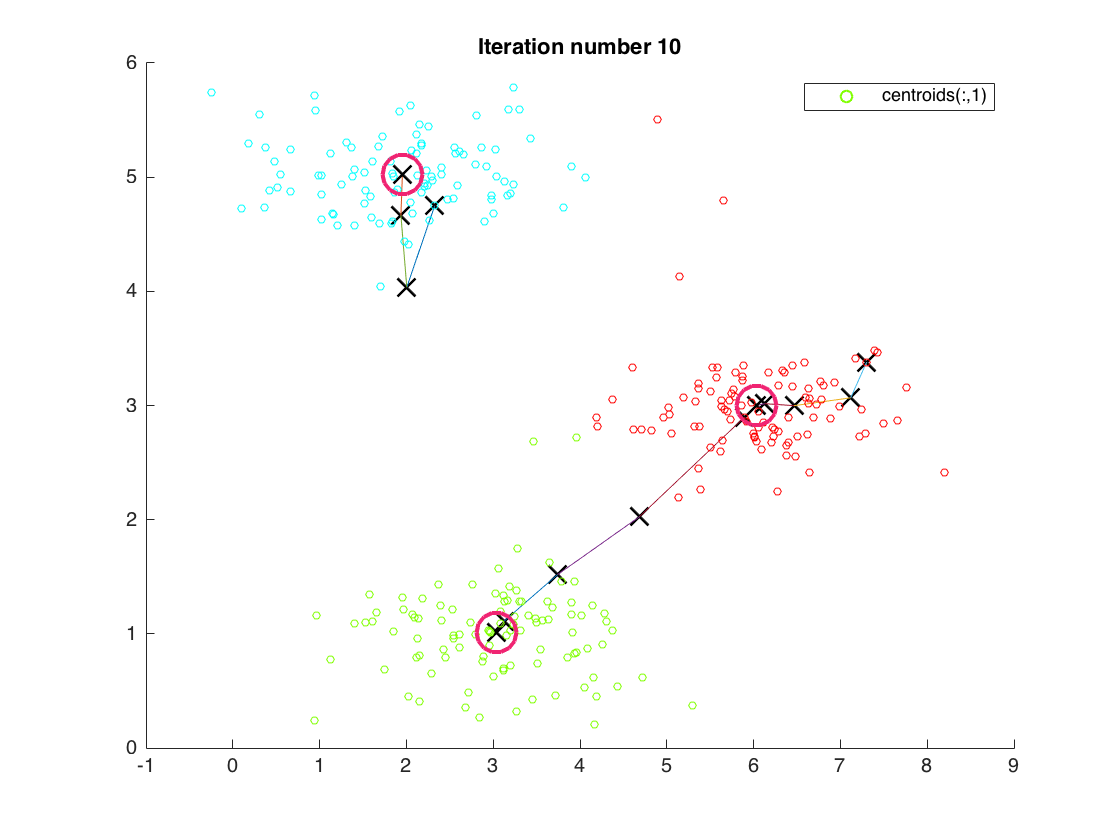
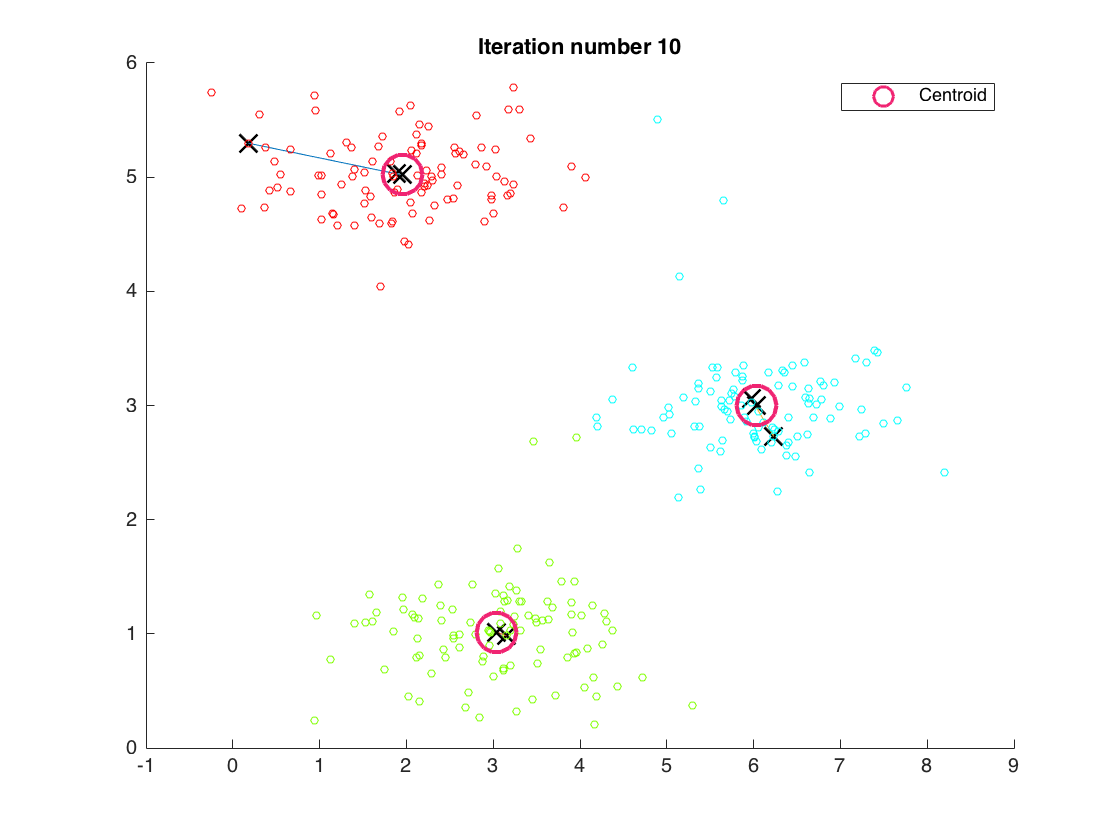
Updating plot legend

diff --git a/K-Means Clustering/html/execute.html b/K-Means Clustering/html/execute.html
@@ -6,7 +6,7 @@
    <!--
 This HTML was auto-generated from MATLAB code.
 To make changes, update the MATLAB code and republish this document.
-      --><title>execute</title><meta name="generator" content="MATLAB 8.6"><link rel="schema.DC" href="http://purl.org/dc/elements/1.1/"><meta name="DC.date" content="2017-01-18"><meta name="DC.source" content="execute.m"><style type="text/css">
+      --><title>execute</title><meta name="generator" content="MATLAB 8.6"><link rel="schema.DC" href="http://purl.org/dc/elements/1.1/"><meta name="DC.date" content="2017-01-20"><meta name="DC.source" content="execute.m"><style type="text/css">
 html,body,div,span,applet,object,iframe,h1,h2,h3,h4,h5,h6,p,blockquote,pre,a,abbr,acronym,address,big,cite,code,del,dfn,em,font,img,ins,kbd,q,s,samp,small,strike,strong,sub,sup,tt,var,b,u,i,center,dl,dt,dd,ol,ul,li,fieldset,form,label,legend,table,caption,tbody,tfoot,thead,tr,th,td{margin:0;padding:0;border:0;outline:0;font-size:100%;vertical-align:baseline;background:transparent}body{line-height:1}ol,ul{list-style:none}blockquote,q{quotes:none}blockquote:before,blockquote:after,q:before,q:after{content:'';content:none}:focus{outine:0}ins{text-decoration:none}del{text-decoration:line-through}table{border-collapse:collapse;border-spacing:0}
 
 html { min-height:100%; margin-bottom:1px; }

diff --git a/K-Means Clustering/plotProgresskMeans.m b/K-Means Clustering/plotProgresskMeans.m
@@ -23,7 +23,9 @@ else
          'MarkerSize', 10, 'LineWidth', 1.5);  
 end
 
-legend('centroids(:,1)');
+h = zeros(1, 1);
+h(1) = plot(NaN, NaN, 'Color', [0.941 0.141 0.447], 'Marker', 'o', 'LineStyle', 'none', 'MarkerSize', 10, 'LineWidth', 1.5);
+legend(h, 'Centroid');
 
 % Plot the history of the centroids with lines
 for j = 1:size(centroids,1)
